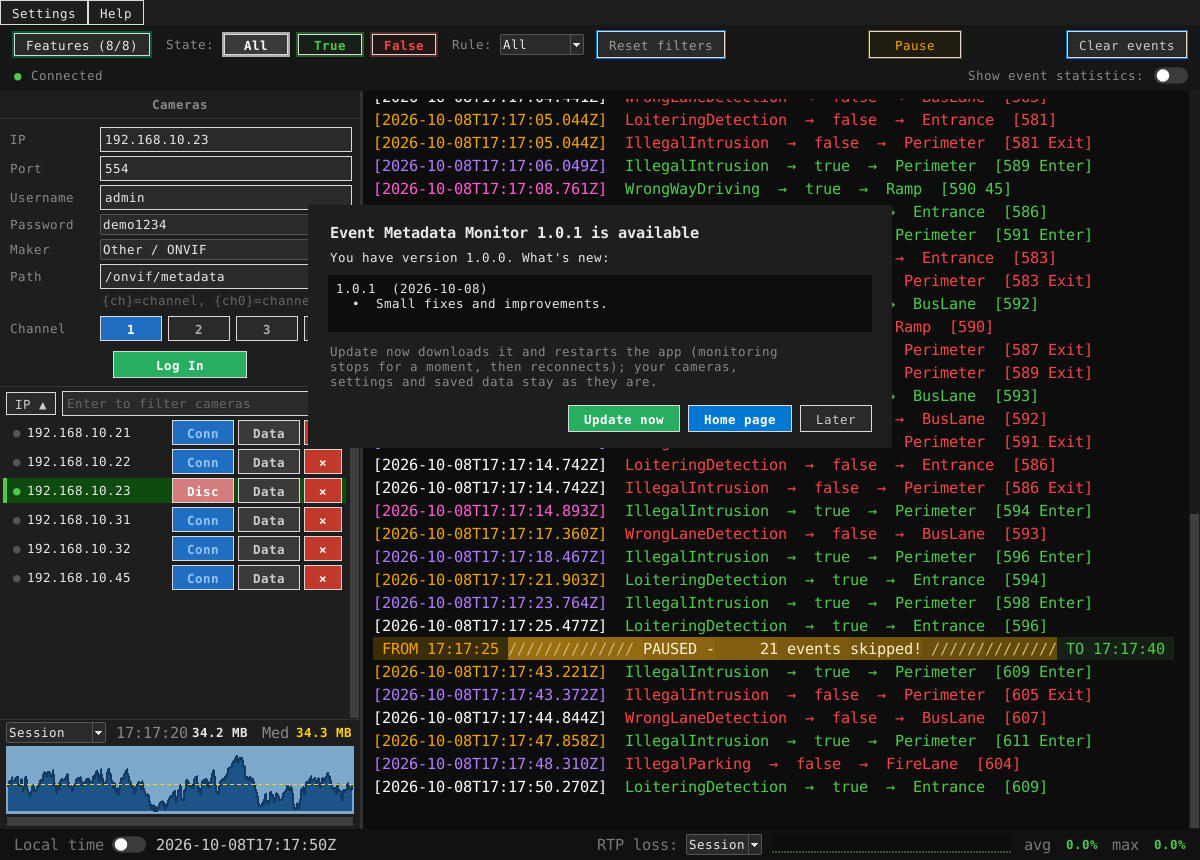
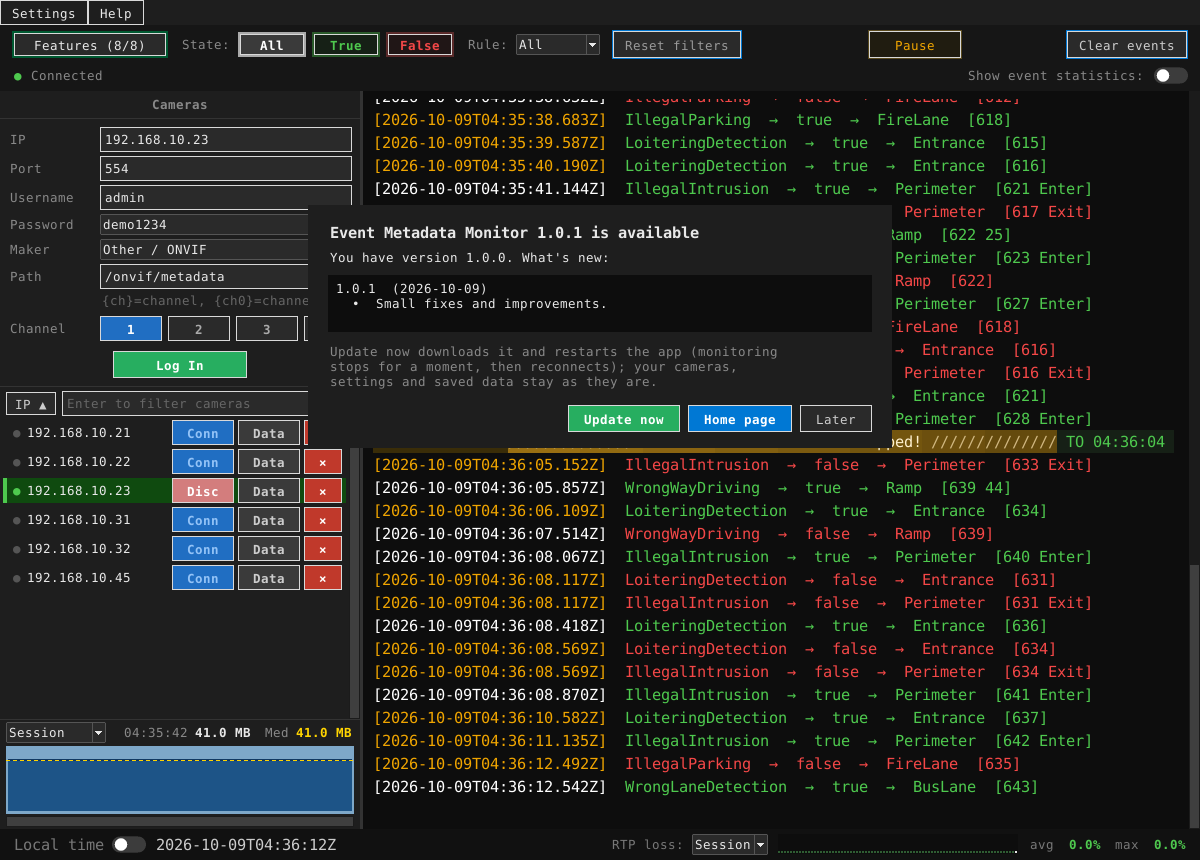
How to use: the app's tutorial, animated; screenshots 4-7 left out (shown animated there); a 30-hour session throughout
Claude-Session: https://claude.ai/code/session_0151LfiytW9KEK13s5v6f8Aa

diff --git a/index.html b/index.html
@@ -72,6 +72,13 @@
   #more { background: none; border: 0; color: var(--accent); cursor: pointer; padding: 6px 0 0; font: inherit; }
   footer { color: var(--muted); font-size: .88rem; padding: 10px 0 40px; display: flex;
            flex-wrap: wrap; gap: 8px 16px; align-items: center; justify-content: space-between; }
+  /* How to use: the app's Help > Tutorial (tutorial.json, media/tutorial/) */
+  .howto { display: grid; gap: 26px; }
+  .topic { display: grid; grid-template-columns: minmax(0, 3fr) minmax(0, 2fr); gap: 18px; align-items: start; }
+  .topic img { display: block; width: 100%; height: auto; border: 1px solid var(--line); border-radius: 8px; background: #0d0d0d; }
+  .topic h3 { margin: 2px 0 6px; font-size: 1.02rem; }
+  .topic p { margin: 0 0 8px; }
+  @media (max-width: 760px) { .topic { grid-template-columns: 1fr; } }
   /* See it: the demo video and the screenshots (media/; hidden while there are none) */
   #see h3 { margin: 0 0 8px; font-size: 1.02rem; }
   #see .clip { margin-bottom: 22px; }
@@ -143,6 +150,7 @@
     <div class="cta">
       <a class="btn" href="#download">Download</a>
       <a class="btn secondary" href="#about">What it is</a>
+      <a class="btn secondary" href="#how">How to use</a>
       <a class="btn secondary" href="#whats-new">What's new</a>
       <a class="btn secondary" href="#feedback">Feedback</a>
       <a class="btn coffee" href="https://buymeacoffee.com/namtpham" target="_blank" rel="noopener">&#9749; Buy me a coffee</a>
@@ -210,6 +218,12 @@
     </div>
     <h3 id="shots-h" hidden>Screenshots <span class="note">(simulated camera data; click to enlarge)</span></h3>
     <div class="shots" id="shots"></div>
+  </section>
+
+  <section id="how" hidden>
+    <h2>How to use</h2>
+    <p class="note">The basics, a few seconds each: the same as Help &rsaquo; Tutorial in the app (simulated camera data).</p>
+    <div class="howto" id="howto"></div>
   </section>
 
   <div class="lb" id="lb" hidden role="dialog" aria-modal="true" aria-label="Screenshot">
@@ -325,15 +339,13 @@ const DEMO_VIDEO = "media/demo.mp4";
 const DEMO_POSTER = "media/demo.jpg";
 // The screenshots' revision: tools/demo_screenshots.py sets it when it saves new
 // ones, so browsers and the Pages CDN fetch them again instead of a cached copy.
-const MEDIA_REV = "202610081717";
+const MEDIA_REV = "202610090436";
 const SCREENSHOTS = [
   ["media/screenshot-1.png", "Main window after 30 hours: cameras, live event log, memory and RTP loss"],
   ["media/screenshot-2.png", "Choose the camera's maker: the path of its metadata stream is filled in"],
   ["media/screenshot-3.png", "Event statistics after 30 hours of monitoring"],
-  ["media/screenshot-4.png", "An event's metadata (double-click a feature)"],
-  ["media/screenshot-5.png", "Features: choose which events to show"],
-  ["media/screenshot-6.png", "Right-click a feature: only its events are shown"],
-  ["media/screenshot-7.png", "Paused (Space): the banner counts the events skipped"],
+  // 4-7 (the metadata panel, Features, right-click, paused) are left out: the
+  // How to use section shows the same, animated.
   ["media/screenshot-8.png", "Settings > General"],
   ["media/screenshot-9.png", "A new version is out"],
 ].map(([src, caption]) => [src + "?v=" + MEDIA_REV, caption]);
@@ -456,6 +468,27 @@ fetch("versions.json", { cache: "no-store" })
       button.disabled = false;
     }
   });
+})();
+
+// How to use: the topics of the app's Help > Tutorial, written to
+// tutorial.json by tools/tutorial_gifs.py along with their animations.
+(function howTo() {
+  fetch("tutorial.json", { cache: "no-store" })
+    .then(r => r.ok ? r.json() : Promise.reject(r.status))
+    .then(data => {
+      const section = document.getElementById("how"), box = document.getElementById("howto");
+      const topics = data.topics || [];
+      if (!topics.length) return;
+      section.hidden = false;           // first, so the (lazy) pictures load
+      topics.forEach((t, i) => {
+        const img = el("img", { src: t.gif + "?v=" + MEDIA_REV, alt: t.title, loading: "lazy" });
+        img.addEventListener("error", () => img.remove());
+        const text = el("div", {}, el("h3", {}, (i + 1) + ". " + t.title),
+                        ...String(t.text || "").split("\n\n").map(p => el("p", {}, p)));
+        box.append(el("div", { class: "topic", id: "how-" + t.id }, img, text));
+      });
+    })
+    .catch(() => {});
 })();
 
 (function seeIt() {

diff --git a/media/README.md b/media/README.md
@@ -17,6 +17,12 @@ Missing files are skipped; with none the section stays hidden.
 | `demo.mp4` | (optional) In use | A short H.264 video, best under 25 MB (the upload limit on github.com) |
 | `demo.jpg` | (optional) | The picture shown before the video plays |
 
+Screenshots 4 to 7 are made but not shown (the page's SCREENSHOTS list
+leaves them out): the "How to use" section shows the same, animated.
+
+`tutorial/*.gif` and `../tutorial.json` are the "How to use" section (the app's
+Help > Tutorial): made by `tools/tutorial_gifs.py`, not by hand.
+
 The screenshots here were made with simulated camera data (a pretend camera
 streaming a fictional analytics app, "SimSight", with a 30-hour session
 simulated), so they show no real devices, places or people. If you replace them with captures from real cameras, blur or
